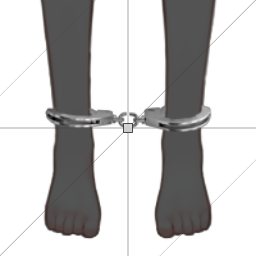
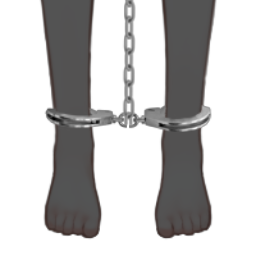
[CHANGE] Review comments part 1

diff --git a/src/assets/foot_restraints/legcuffs/legcuffs.asset.ts b/src/assets/foot_restraints/legcuffs/legcuffs.asset.ts
@@ -61,13 +61,9 @@ DefineAsset({
 			name: 'Chains',
 			variants: [
 				{
-					id: 'none',
-					name: 'No Chain',
-					default: true,
-				},
-				{
 					id: 'long',
 					name: 'Long Chain',
+					default: true,
 					properties: {
 						poseLimits: {
 							options: [
@@ -250,45 +246,43 @@ DefineAsset({
 							options: [
 								{
 									bones: {
-										leg_l: 0,
-										leg_r: 0,
-										arm_r: 88,
-										arm_l: 88,
-										elbow_r: 20,
-										elbow_l: 20,
+										arm_l: [[-9, 180]],
+										arm_r: [[-9, 180]],
+										elbow_l: [[-13, 161]],
+										elbow_r: [[-13, 161]],
+										leg_l: 5,
+										leg_r: 5,
 									},
-									options: [
-										{ arms: { position: 'back_below_hair' } },
-										{ arms: { position: 'back' } },
-									],
 								},
 								{
 									bones: {
+										arm_l: [[-9, 180]],
+										arm_r: [[-9, 180]],
+										elbow_l: [[-13, 161]],
+										elbow_r: [[-13, 161]],
+										leg_l: [[0, 1]],
+										leg_r: [[0, 1]],
+									},
+								},
+								{
+									bones: {
+										arm_l: [[-9, 180]],
+										arm_r: [[-9, 180]],
+										elbow_l: [[-13, 161]],
+										elbow_r: [[-13, 161]],
 										leg_l: -2,
 										leg_r: -2,
-										arm_r: 88,
-										arm_l: 88,
-										elbow_r: 20,
-										elbow_l: 20,
 									},
-									options: [
-										{ arms: { position: 'back_below_hair' } },
-										{ arms: { position: 'back' } },
-									],
 								},
 								{
 									bones: {
+										arm_l: [[-9, 180]],
+										arm_r: [[-9, 180]],
+										elbow_l: [[-13, 161]],
+										elbow_r: [[-13, 161]],
 										leg_l: -5,
 										leg_r: -5,
-										arm_r: 88,
-										arm_l: 88,
-										elbow_r: 20,
-										elbow_l: 20,
 									},
-									options: [
-										{ arms: { position: 'back_below_hair' } },
-										{ arms: { position: 'back' } },
-									],
 								},
 							],
 						},
